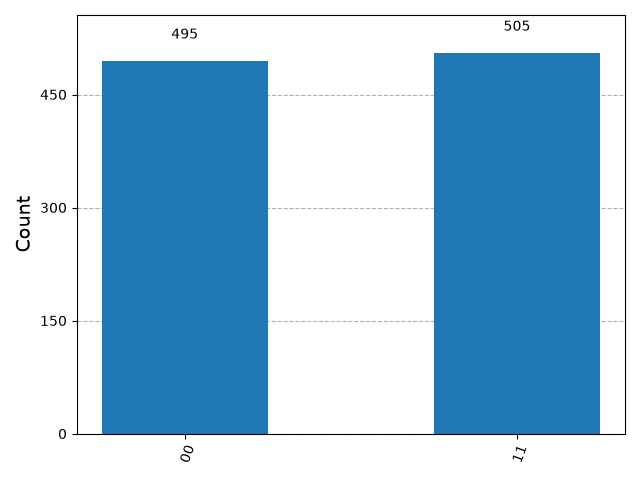
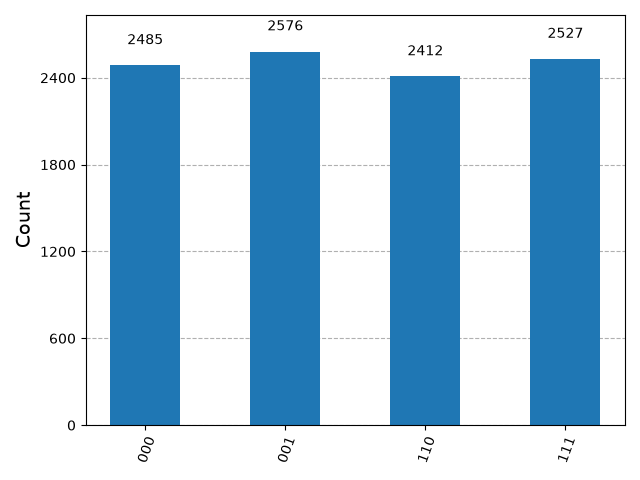
trying to understand entanlgement proove via measurement

diff --git a/qubits-and-some-gates.py b/qubits-and-some-gates.py
@@ -18,22 +18,35 @@ qc_1.h(0)                     # apply H gate to the 0th qubit
 # 1.2 Testing out some gates on two qubits
 qc_2 = QuantumCircuit(2)
 qc_2.h(0)
-qc_2.cx(0, 1)                 # 0th-qubit-Controlled-NOT gate on 1st qubit
+qc_2.cx(0, 1)                 # 0th-qubit-Controlled-NOT gate on 1st qubit. 
+                              #   0 & 1 are now entangled.
+
+
+# 1.3 Testing more entanglement
+qc_3 = QuantumCircuit(3)
+qc_3.h(0)        # apply H gate to the 0th qubit
+qc_3.cx(0, 1)    # apply CNOT gate with 0th qubit as control and 1st qubit as target
+qc_3.h(1)        # apply H gate to the 1st qubit
+qc_3.cx(1, 2)    # apply CNOT gate with 1st qubit as control and 2nd qubit as target
+# the 0th and 1st qubits are now entangled, and the 1st and 2nd qubits are also entangled.
+# the 0th and 2nd qubits are indirectly entangled through the 1st qubit.
+# TODO: understand output fully... how can i proove entanglement 0 <=> 2?
 
 
 # 2. Add the classical output in the form of measurement of all qubits
 # >>> MAKE SURE TO MEASURE THE QC THAT YOU WANT TO SEE <<<
-# qc_2 is left intact, qc_measured  is  new circuit description
-qc_measured = qc_2.measure_all(inplace=False)   
+# qc_X is left intact, qc_measured  is  new circuit description
+qc_measured = qc_3.measure_all(inplace=False)   
 
 
 # 3. Execute using the Sampler primitive
 from qiskit.primitives import StatevectorSampler
 sampler = StatevectorSampler()
-job = sampler.run([qc_measured], shots=1000)
+job = sampler.run([qc_measured], shots=10000)
 result = job.result()
 print(f" > Counts: {result[0].data['meas'].get_counts()}")
 print(qc_measured.draw(output="text"))  # Draw Circuit Diagram
+
 
 # 4. Graphical output
 from qiskit.visualization import plot_histogram
